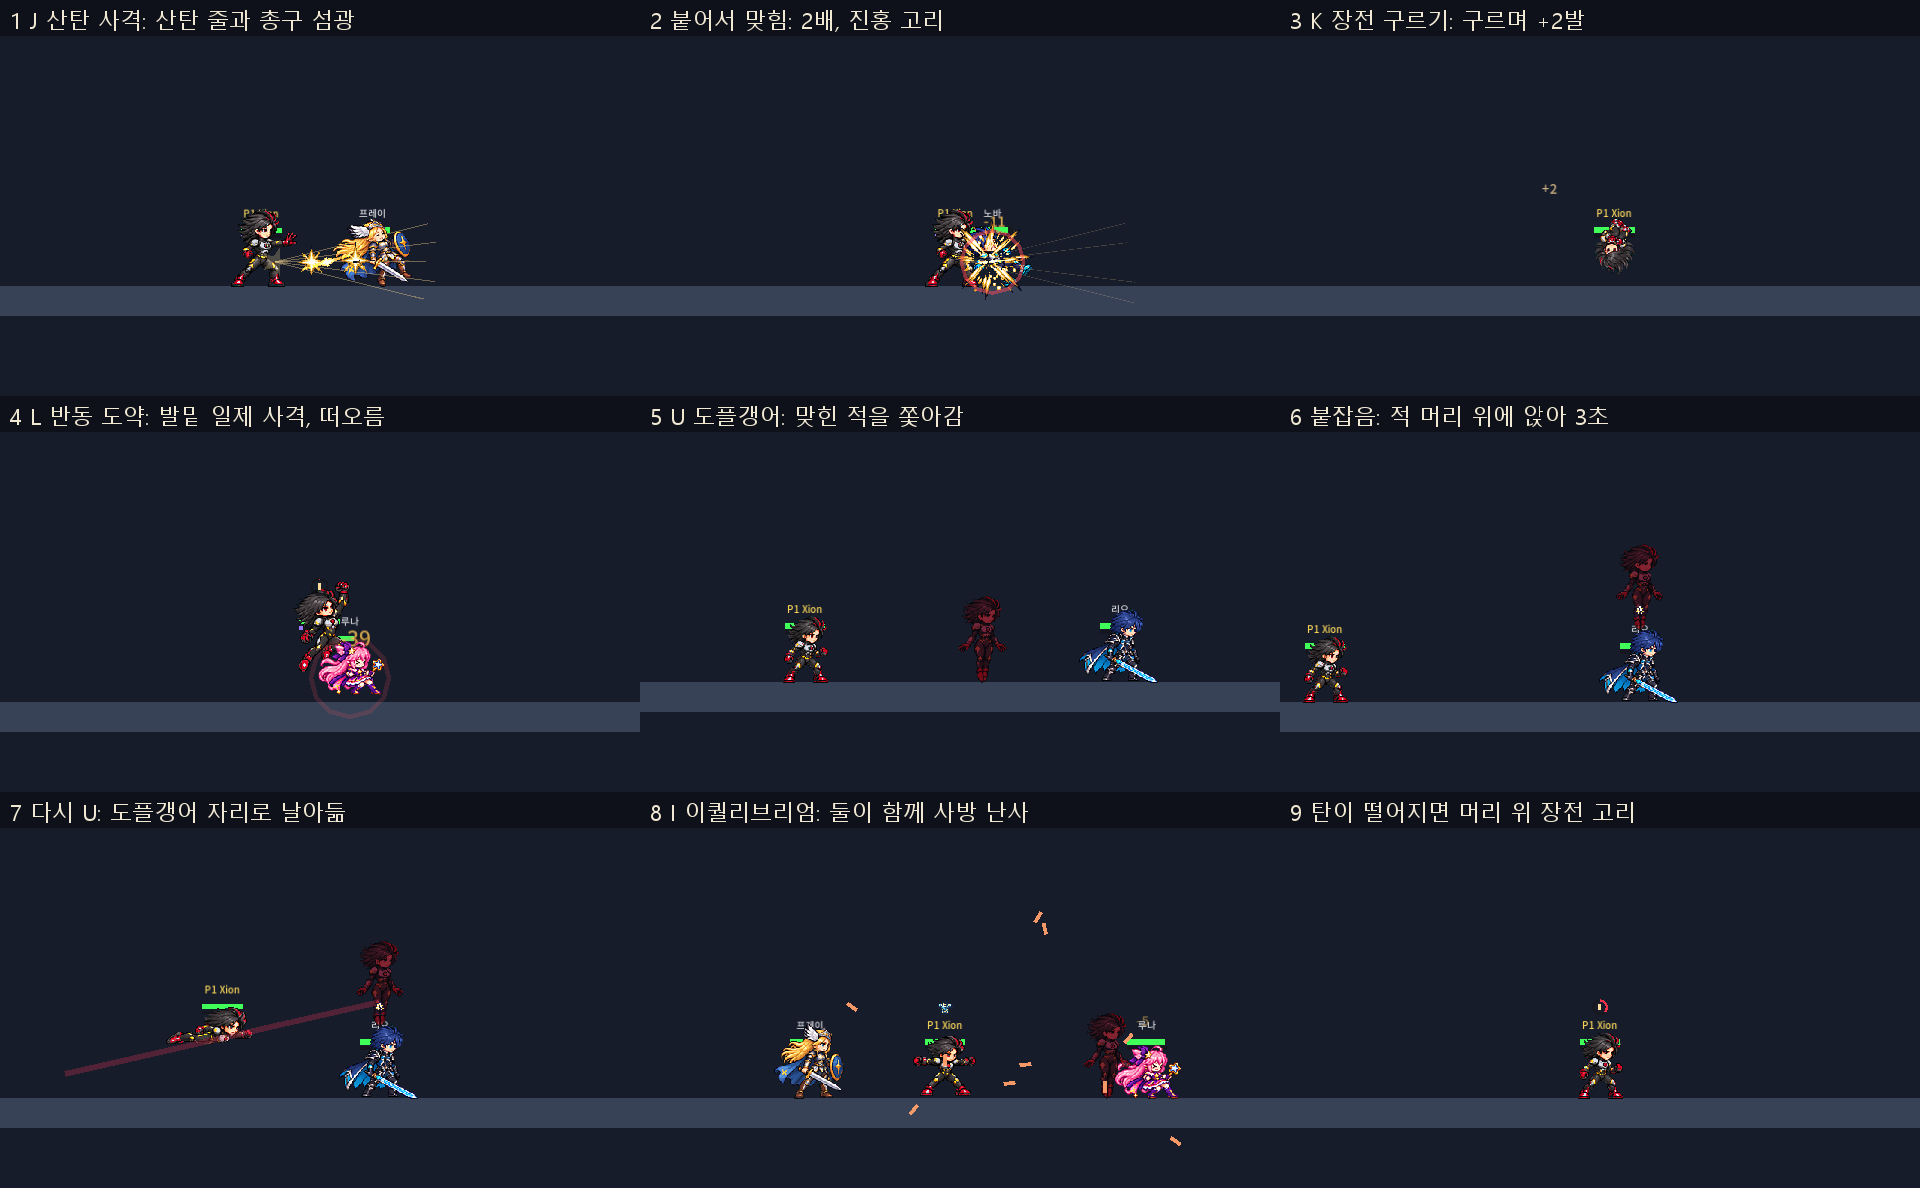
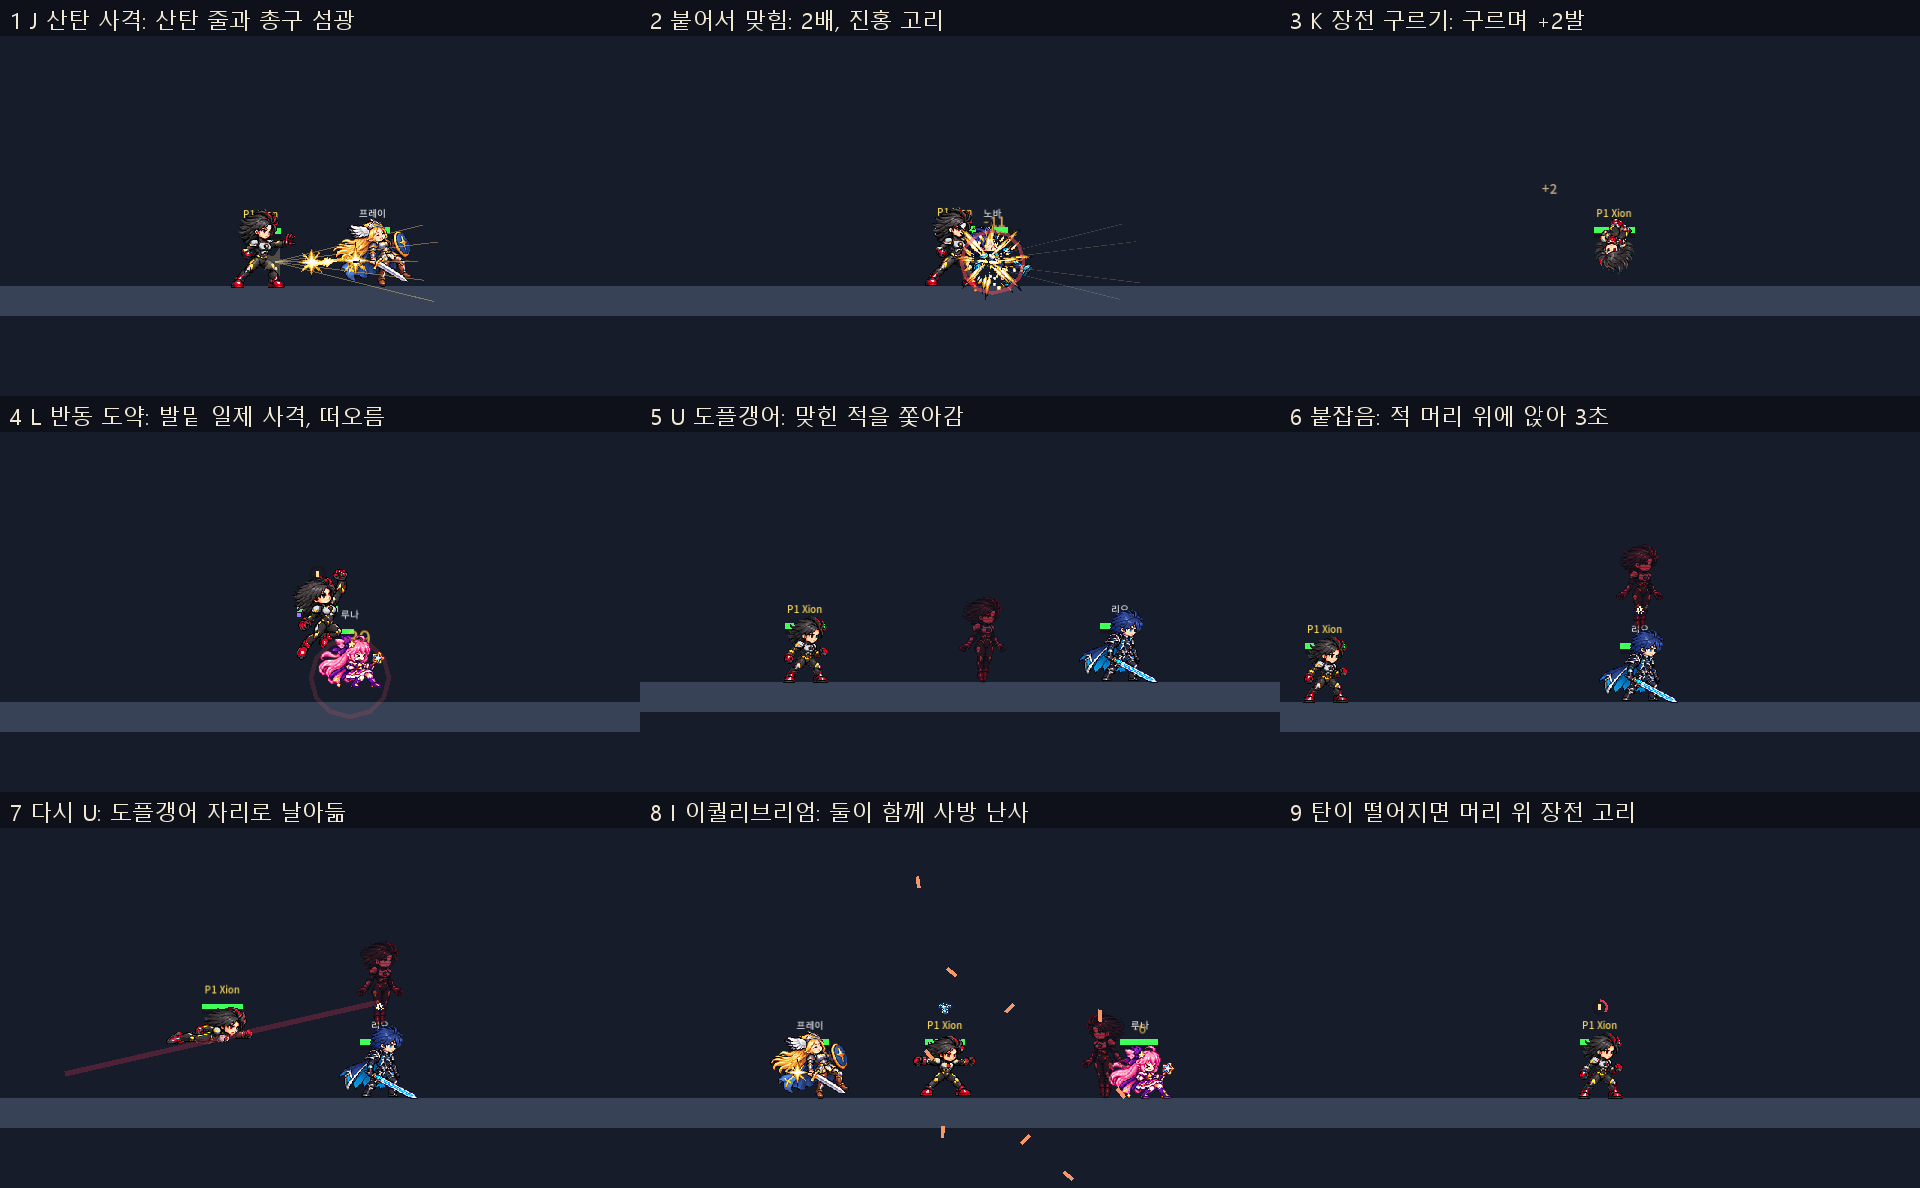
Xion's doppelganger as a crimson hologram (the user's story: another timeline's Xion), matching concepts C-F

diff --git a/design/SKILLS.md b/design/SKILLS.md
@@ -165,7 +165,7 @@
 | `J` | 산탄 사격 | 누를 때마다 한 발(왼손·오른손 번갈아). 누른 방향을 45°로 맞춰 쏜다(방향 없으면 앞). 맞은 적을 밀어낸다. 탄이 없으면 쏘지 않고 머리 위 장전 표시가 튄다. 다음 발까지 0.15초 안에 누르면 그때 쏜다. | 10발 `[MAGAZINE]`, 0.5초 간격(1초 2발) `[SHOT_GAP]`, 선딜/후딜 0.06/0.18초; 피해 6, 넉백 220(옆 쏘기는 조금 위로); 상자 60×46을 30→137(×COMBAT, 몸 중심에서 약 250px)로 0.06초에 쓸기 `[SHOT_*]`; 재장전 3초 `[RELOAD_TIME]`, 6초 안 쏘면 바로 가득 `[IDLE_RELOAD]` | 옆: `shot`·`shot_alt` 2~4 번갈아, 위: `shot_up` 3~4, 아래(땅, 낮게 앞으로): `shot_down` 3~4, 공중 아래: `shot_air_down` 3~4 | 코드: 총구 섬광(별꼴), 산탄 줄 5개(28° 부채꼴, 0.1초). 판정 상자는 숨김 | 임시 | 조준 방향, 사거리 250px, 0.06초 |
 | `K` | 장전 구르기 | 누른 쪽(없으면 앞)으로 구른다. 처음 0.2초 무적, 탄 2발 장전(10발까지). 재장전 중이면 바로 2발이 생기고 재장전은 이어진다. 공중에서는 착지 전 한 번(수평). | 180px를 0.35초에 고르게 `[ROLL_*]`, 무적 0.2초, 쿨다운 1.5초, +2발 | `tumble` 전체 | 코드: "+2" 글자 | 임시 | 구르는 거리·방향 |
 | `L` | 반동 도약 | 남은 탄을 모두 발밑으로 쏘고 점프 한 번만큼 뜬다. 피해는 탄 수에 따른다. 쓰고 나면 재장전 3초. 탄이 없으면 안 된다. 착지 전 한 번. | 선딜/후딜 0.05/0.15초; 탄 한 발에 피해 2(10발이면 20), 넉백 300 아래로, 93×56(×COMBAT: 140×84, 무릎부터 아래) `[RECOIL_*]`; 뜨기 `jump_velocity×1.0` | `recoil_jump` 1~4 | 코드: 아래로 산탄 줄(4+탄 수 개) | 임시 | 발밑 부채꼴, 탄 수 |
-| `U` 1회 | 도플갱어 | Xion 모습의 도플갱어(진홍 반투명)를 남긴다. 지형을 지나 떠다니며 Xion이 마지막으로 맞힌 적 캐릭터를 쫓고(없으면 Xion 뒤를 따라다님), 처음 닿은 적 캐릭터를 3초 붙잡아 그 머리 위에 앉는다. 붙잡힌 적은 아무것도 못 하고, 누구에게 맞든 피해만 받고 밀리지 않는다. 없앨 수 없다: 적이 때리면 그 넉백만큼 밀리고 2초 동안 절반 속도. 붙잡는 중엔 밀리지 않는다. Xion의 공격·몬스터·지형 위험은 지나간다. 한 번에 하나. | 30초 `[DOUBLE_LIFETIME]`, 200px/s(캐릭터 달리기 366~432의 절반) `[DOUBLE_SPEED]`, 맞으면 100px/s 2초 `[DOUBLE_HIT_SLOW]`, 붙잡기 3초 `[PIN_TIME]`, 머리 위 96px `[HEAD_SEAT]`, 쿨다운 10초(사라진 뒤부터) `[DOUBLE_COOLDOWN]`, 후딜 0.2초 | 시전 `double_cast` 4~6, 도플갱어 `double_float`(반복) | `XionDouble`(Xion 그림 공유, 진홍 반투명, 플레이어 층), 코드 진홍 고리 | 임시 | 쫓는 적, 머리 위 자리, 남은 시간 |
+| `U` 1회 | 도플갱어 | 다른 시간선의 Xion(사용자 설정 2026-11-19)을 홀로그램으로 남긴다(진홍 단색·반투명·주사선·깜빡임). 지형을 지나 떠다니며 Xion이 마지막으로 맞힌 적 캐릭터를 쫓고(없으면 Xion 뒤를 따라다님), 처음 닿은 적 캐릭터를 3초 붙잡아 그 머리 위에 앉는다. 붙잡힌 적은 아무것도 못 하고, 누구에게 맞든 피해만 받고 밀리지 않는다. 없앨 수 없다: 적이 때리면 그 넉백만큼 밀리고 2초 동안 절반 속도. 붙잡는 중엔 밀리지 않는다. Xion의 공격·몬스터·지형 위험은 지나간다. 한 번에 하나. | 30초 `[DOUBLE_LIFETIME]`, 200px/s(캐릭터 달리기 366~432의 절반) `[DOUBLE_SPEED]`, 맞으면 100px/s 2초 `[DOUBLE_HIT_SLOW]`, 붙잡기 3초 `[PIN_TIME]`, 머리 위 96px `[HEAD_SEAT]`, 쿨다운 10초(사라진 뒤부터) `[DOUBLE_COOLDOWN]`, 후딜 0.2초 | 시전 `double_cast` 4~6, 도플갱어 `double_float`(반복) | `XionDouble`(Xion 그림 공유, 홀로그램 셰이더: 밝기를 진홍 한 색으로, 세 줄마다 어둡게, 위에서 아래로 쓸고 가는 밝은 띠, 반투명 0.62와 가끔 끊김; 플레이어 층), 코드 진홍 고리 | 임시 | 쫓는 적, 머리 위 자리, 남은 시간 |
 | `U` 2회 | 날아들기 | 도플갱어가 붙잡은 적이 500px 안이면 다시 U: 도플갱어 자리(적 머리 위)로 0.2초 만에 날아든다(지형 통과, 무적 없음). 도착하면 도플갱어가 사라지고 붙잡힘도 끝난다. 날아드는 중에 맞으면 그 자리에서 멈춘다. | 거리 500 `[DIVE_RANGE]`, 0.2초 `[DIVE_TIME]`; 봇은 붙잡은 뒤 0.3초 | `dive` 3~5 | 코드: 진홍 궤적, 도착 고리 | 임시 | 출발·도착, 0.2초 |
 | `I` | 이퀄리브리엄 | 시작할 때 탄창을 채우고 2.5초 동안 사방으로 쏜다(황금각으로 돌아가며 고르게). 도플갱어가 있으면 그 자리에서 반대쪽으로 함께 쏜다(붙잡은 채로도). 걷기·공중 이동 40%, 점프 안 됨. 끝나면 탄창이 가득. 0.6초 슈퍼아머(공통) 뒤 맞으면 멈춘다. | 2.5초 `[BARRAGE_TIME]`, 0.05초마다 한 발씩(Xion과 도플갱어 각각), 16×5, 900px/s·0.3초(270px), 피해 3, 넉백 120 `[BULLET_*]`; 이동 40% `[BARRAGE_MOVE]` | `barrage` 4~5 | 코드: 탄은 색 사각형(`XionBullet`) | 임시 | 탄 궤적, 두 총구 |
 | 자동 | 더블 샷건 | J가 적을 밀어낸다. Xion의 모든 공격(도플갱어 난사 포함)은 가까울수록 세다. 총알은 쏜 자리에서 잰다. 몬스터에도 적용. | 몸 중심(총알은 총구)에서 60px 안 2배, 250px에서 1배, 사이는 고르게 `[CLOSE_*]`·`[FAR_RANGE]`; 공용 훅 `damage_scale_against` | — | 코드: 1.6배 이상이면 맞은 몸에 진홍 고리 | 임시 | 맞은 몸 중심 |
@@ -240,7 +240,7 @@
 | 28 | Xion 기본 그림 | 임시(Nova 여성체 다시 칠함) | 「이미지/스프라이트 담당」: 메인 일러스트·얼굴·기본 시트(쌍산탄총, 3등신 제안) | D51 |
 | 29 | Xion 산탄 사격·반동 도약 | 임시(코드 줄·섬광) | 총구 섬광, 산탄 궤적(옆·위·아래), 발밑 일제 사격 | 사거리 250px, 0.06초; 발밑 140×84 |
 | 30 | Xion 장전 구르기 | 임시 | 구르기 먼지, 장전 표시(지금 "+2" 글자) | 180px, 0.35초 |
-| 31 | Xion 도플갱어 | 임시(Xion 그림을 진홍 반투명) | 도플갱어 모습, 시전, 머리 위에 앉은 모습, 날아들기 궤적 | 200px/s, 머리 위 96px, 0.2초 |
+| 31 | Xion 도플갱어 | 임시(Xion 그림을 진홍 홀로그램으로, 코드 셰이더. 외형 C~F 일러스트의 홀로그램과 맞춤) | 도플갱어 모습, 시전, 머리 위에 앉은 모습, 날아들기 궤적 | 200px/s, 머리 위 96px, 0.2초 |
 | 32 | Xion 이퀄리브리엄 | 임시(색 사각형) | 사방 탄, 두 총구의 섬광 | 900px/s·0.3초, 0.05초 간격 |
 | 33 | Xion 패시브·탄 표시 | 임시(코드 고리) | 가까이 맞힌 표시, 머리 위 재장전 고리 | 1.6배 이상, 재장전 3초 |
 | 34 | Xion 아이콘·몸 동작 줄 | 임시(글자) | 아이콘 `xion_j`·`xion_k`·`xion_l`·`xion_u`·`xion_i`; 몸 동작 11줄(`Xion.MOVE_SHEET_ROWS` 이름 그대로) | D51 |

diff --git a/reports/xion-kit-2026-11-18/README.md b/reports/xion-kit-2026-11-18/README.md
@@ -27,6 +27,18 @@
 
 수치는 평가 문서의 시작 값 그대로다. 자세한 값은 `design/SKILLS.md` Xion 절에 있다.
 
+## 2026-11-19: 도플갱어를 홀로그램으로
+
+「이미지/스프라이트 담당」이 사용자 설정을 전했다. "도플갱어는 협력하는 또 다른 시간선의 Xion … 일러스트에도 홀로그램 같은 모습으로". 외형 후보 C~F 일러스트에서 도플갱어는 진홍 단색 반투명 실루엣이고, 주사선이 보인다. 게임 속 모습은 이 세션이 정하기로 했다.
+
+그래서 게임 속 도플갱어도 같은 모습으로 바꿨다(코드 셰이더, 임시).
+
+- 그림을 밝기에 따라 진홍 한 색으로 바꾼다.
+- 화면 세 줄마다 어둡게 하고, 밝은 띠가 위에서 아래로 쓸고 간다.
+- 반투명(0.62)으로 하고, 가끔 짧게 끊긴다.
+
+위 보드의 5·6번이 바뀐 모습이다. 진짜 이펙트는 외형을 고른 뒤 Codex 후보를 거쳐 시안 월드컵에서 고른다.
+
 ## 리드가 더 정한 것 (넣으면서)
 
 평가 문서의 19개 외에 넣으면서 정했다.

diff --git a/smash-nine-prototype/characters/xion/Xion.md b/smash-nine-prototype/characters/xion/Xion.md
@@ -8,6 +8,7 @@
 - 전투 방식: 쌍산탄총으로 밀어내며 견제한다. 도플갱어가 적을 붙잡으면 붙어서 두 배로 끝낸다. 붙잡힌 적은 밀리지 않으니 그동안 가까이서 연달아 쏜다. 탄창 10발과 재장전 3초가 박자를 만들고, 구르기가 2발을 채운다.
 - 기준 감각: 묵직한 한 발, 구르며 장전, 그림자 분신, 사방 난사
 - 체형: 여성체만 (D22)
+- 설정(사용자 2026-11-19): 한 소녀가 누군가에 의해 100년 동안 시간의 개념이 없는 공간에서 시공간 괴물들을 사냥하며 살아남았고, 이후 현실로 돌아왔다. 도플갱어는 협력하는 또 다른 시간선의 Xion이다. 그래서 게임에서도 진홍 홀로그램으로 보인다.
 
 사용자가 직접 짠 키트다. 총괄 세션이 사용자 지시("신규 캐릭터 생성. 총잡이이며, 컨셉은 건카타", "여성으로. 이름은 Xion")를 전했고, 리드 제안 v1 대신 사용자 안으로 갔다. 리드가 빈 곳을 채우고 사용자가 도플갱어를 고친 뒤 "이대로 넣기"(2026-11-18, D51).
 

diff --git a/reports/xion-kit-2026-11-18/art-brief.md b/reports/xion-kit-2026-11-18/art-brief.md
@@ -12,7 +12,7 @@ Xion(시온)은 게임에 들어가 있다(D51). 지금 그림은 임시다: Nov
   - 검정·은·진홍은 지금 로스터와 겹치지 않는다.
   - 머리·얼굴 둘레는 비운다(D48).
 - **등신:** 3등신 제안(Frey·Rio와 같음, D25).
-- **도플갱어:** 따로 그리지 않는다. Xion 그림을 진홍 반투명으로 칠해 쓴다.
+- **도플갱어:** 다른 시간선의 Xion이다(사용자 설정 2026-11-19). 따로 그리지 않는다. 게임에서는 Xion 그림을 진홍 홀로그램으로 바꿔 쓴다(단색, 반투명, 주사선).
 
 ## 필요한 것
 
